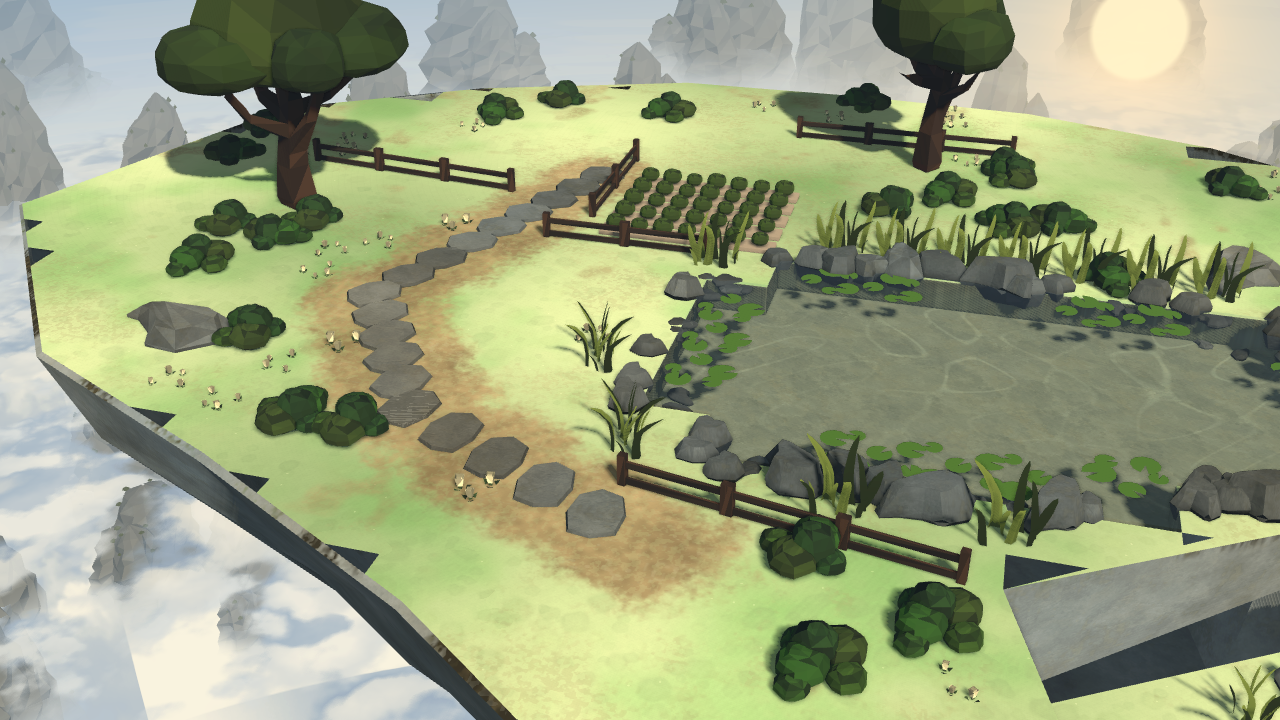
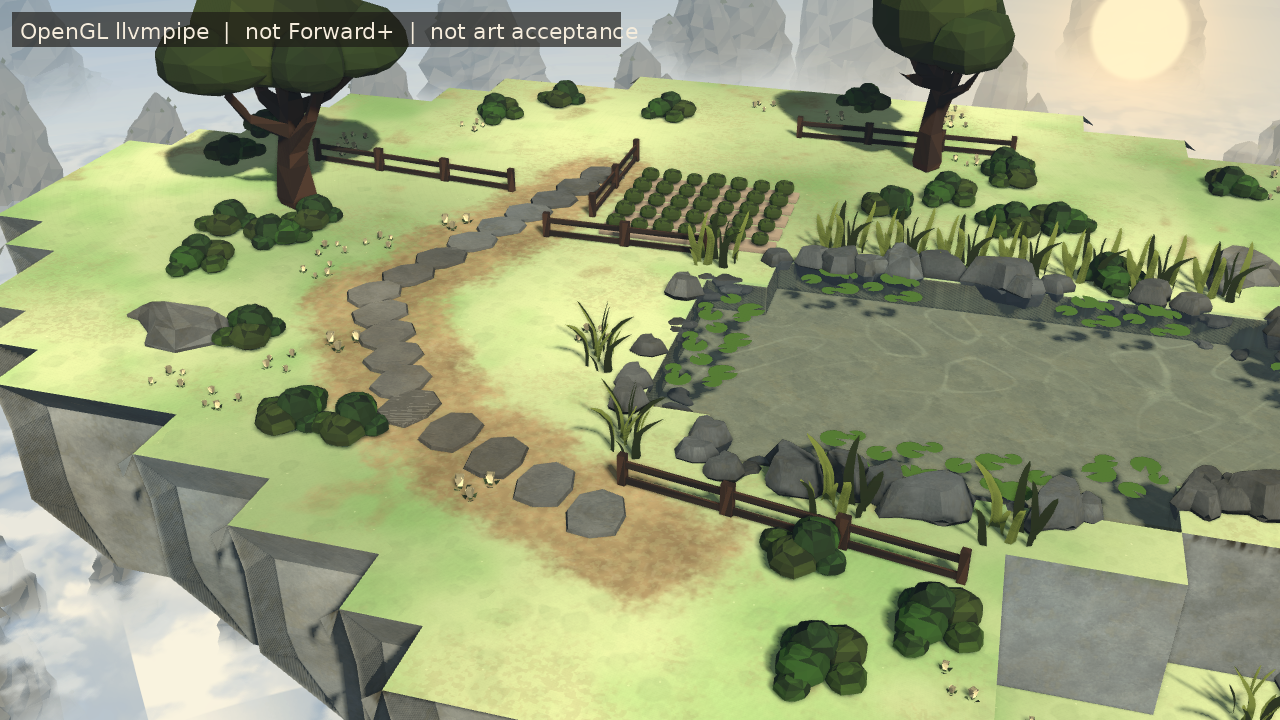
Add stage-2 shoulders and blunt feet on the cell-edge rim.
Each merged coast keeps its wide face and per-cell lip joints, then slopes through a hashed shoulder into a vertical wall and an inward foot. Adjacent runs weld only at the shared boundary corner. Thin land clamps the inset so feet do not cross. The island-wide keel cap stays off.

diff --git a/CURRENT_CONTEXT.md b/CURRENT_CONTEXT.md
@@ -2,13 +2,13 @@
 
 更新：2026-10-29。用户最新明确指示优先。
 
-岛的外形以一张顶面高度图加占地为准（`heightmap_island.gd`）。扩／缩改占地，抬／降改高度。阶段 1 外缘是暴露格边：共线且同高的边合成一面竖墙，向下 2 米；草地是完整格子，不再裁进内缩环。格子台阶留在唇线上。肩、钝脚、全岛底盖和嵌石还没做。验收对照仍是全岛主图；本机 OpenGL 帧还不是那张暖金画面。默认走高度图。配色保持暖雾、橄榄草地、软灰石的大色块。计划见 `docs/art/HEIGHTMAP_RIM_IMPLEMENTATION_PLAN.md`。
+岛的外形以一张顶面高度图加占地为准（`heightmap_island.gd`）。扩／缩改占地，抬／降改高度。外缘是暴露格边：共线且同高的边合成一面宽墙，保留逐格接头。阶段 2 在这条边上加了缓肩、竖面和向内的钝脚；相邻段只在边界角焊接。窄地会缩短内收，避免脚对穿。草地仍是完整格子。格子台阶留在唇线上。没有全岛 `KEEL_Y` 盖，嵌石没做。岛心从底下看仍是空的，只有墙下那一圈钝脚是实的。验收对照仍是全岛主图；本机 OpenGL 帧还不是那张暖金画面。默认走高度图。配色保持暖雾、橄榄草地、软灰石的大色块。计划见 `docs/art/HEIGHTMAP_RIM_IMPLEMENTATION_PLAN.md`。
 
 PR #20（`d830c37`）复查补丁：宽墙的面分组保留，网格保留每个源格的接头，以便和顶面采样同一套编辑 morph；补上干湿相邻格的显示高差墙。外缘瀑布按真实连续水格边生成，水域孔洞保留原始绕向，空岛清除水域缓存。默认 heightmap 模式不再因旧塑岩标记自动切回 contour；旧塑岩工具在此模式禁用，含旧塑岩数据的布局先验证后明确拒绝，当前地形、历史和原文件不变。六种土地／水笔刷、普通布局载入和撤销／重做保留。
 
 补充验证见 `heightmap_regression_test.gd`、`heightmap_renderer_test.gd`、`heightmap_mode_test.gd`：包含真实分预算发布和编辑历史。测试不等于美术验收。刷新仍整岛重算，单次半径 2 编辑的 headless 调试样本仍重建 20 块、分 10 次 `flush_dirty(2)` 发布；不能据此声称已局部更新或已达目标设备 60 FPS。当前独立道具仍是固定锚点节点及自动散布，尚无用户自由摆放并存档的完整编辑功能，本补丁没有实现或删除它。
 
-唯一目标：第一阶段PCG与真实游戏画面；游戏内容填充须等用户明确启动第二阶段。
+当前做的是外缘阶段 2（肩、竖面、钝脚）。玩法、存档扩展、经济和战斗仍不在本轮。
 
 用户所说“不如之前”指本阶段刚接手的baseline，不是相邻v5。最近模块化PCG小样累计画面被否决，不能以技术检查替代审美判断。当前只保留 `scenes/terrain_editor.tscn` 及必要依赖，远景恢复初始源版本。初始布局、植物、水体、材质与灯光保留；房屋是明确例外，旧模型、对应源文件和接入已删除，须换新房屋。
 
